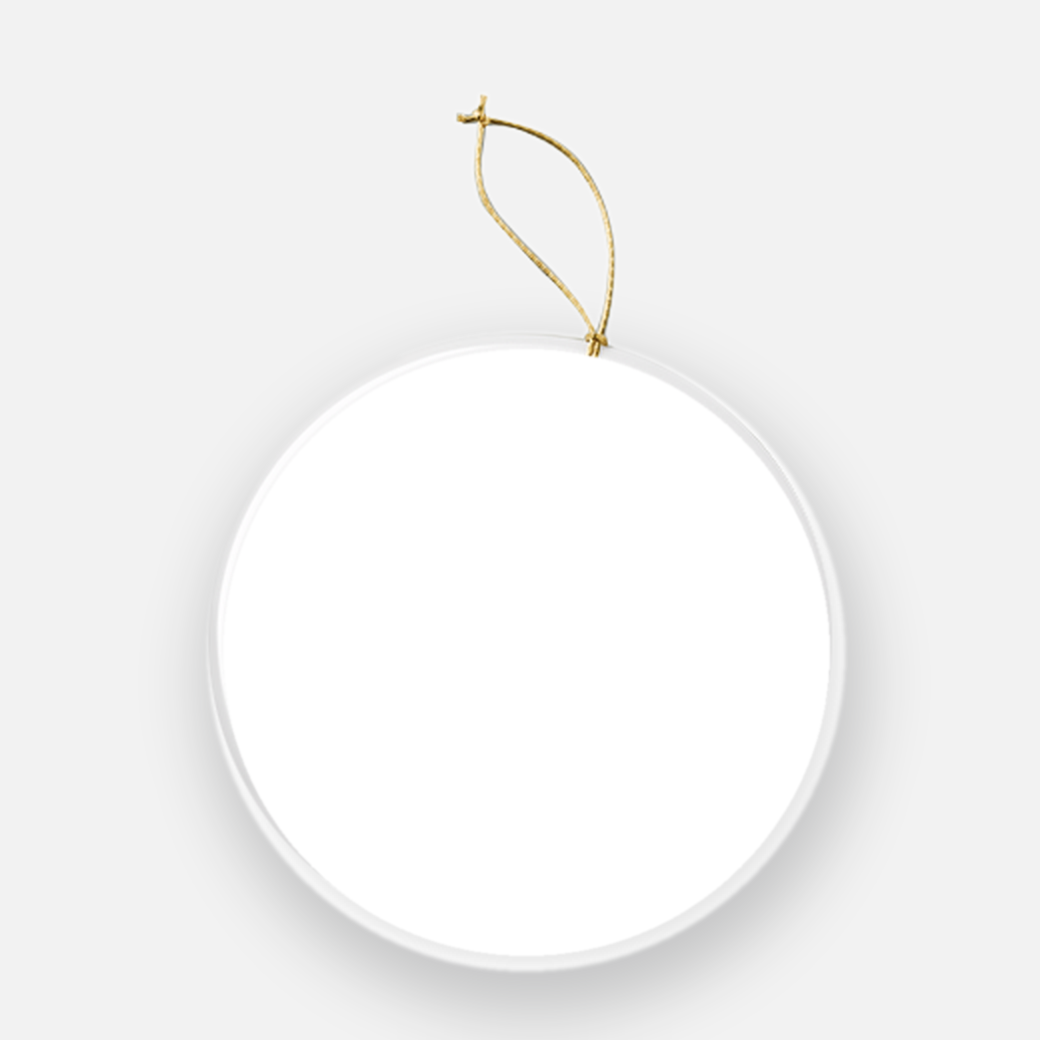
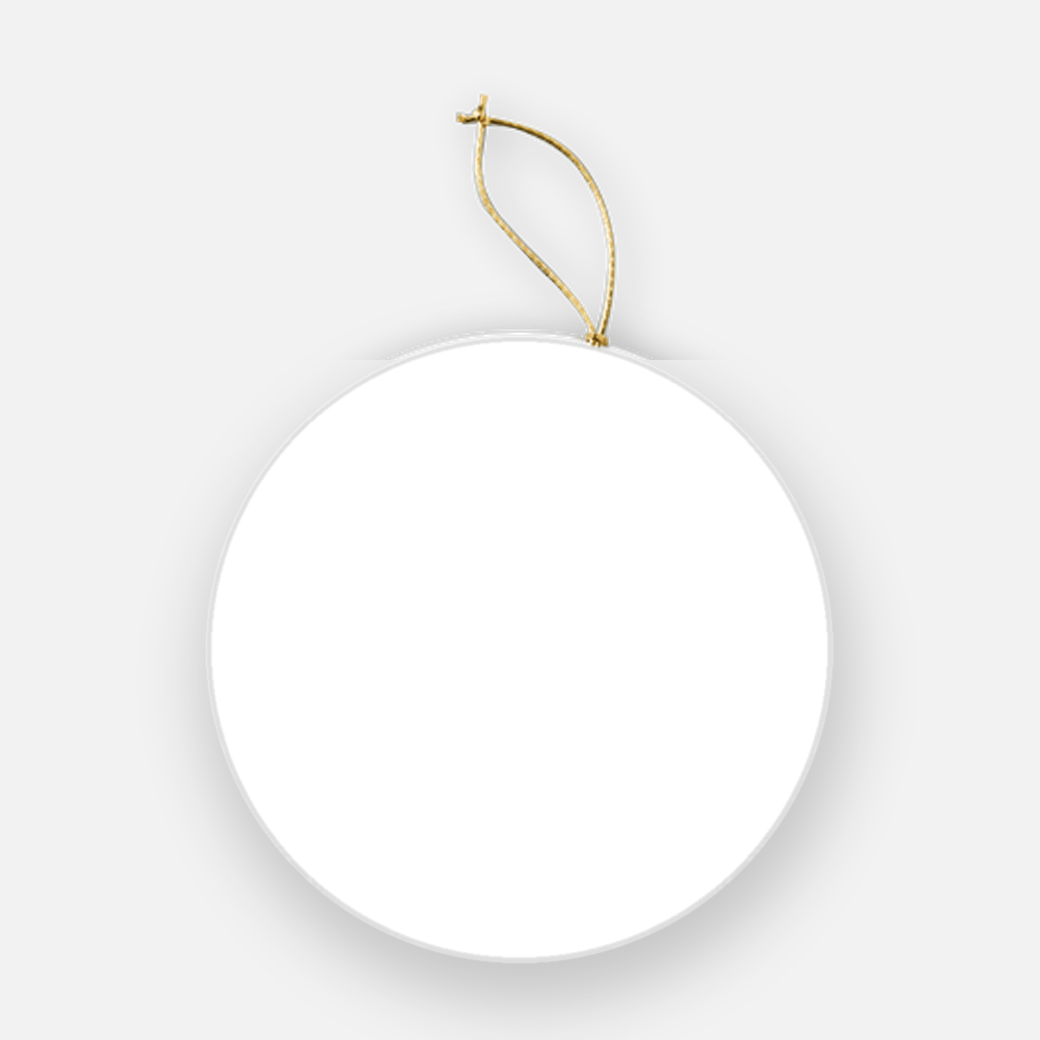
Ornament mockup: photo runs edge-to-edge, no white rim
The ceramic ornament prints edge-to-edge across the whole disc (die-cut), so
the mockup should too — the previous version left a thin white ceramic rim,
making the photo look inset. Rebuild from the transparent-background product
PNG: fit the disc from its alpha (centroid + area), erase the disc face all the
way to the die-cut edge (no inset), keep the real centered gold string/grommet,
add a soft shadow and a faint die-cut edge, opaque #f2f2f2 corners mask the
photo into the round shape. rect updated in product-preview.js and
unsplash-samples.js to the new disc fit.

Claude-Session: https://claude.ai/code/session_01XZrfFYhyt8N6RMYYLcASwM

diff --git a/public/unsplash-samples.js b/public/unsplash-samples.js
@@ -168,7 +168,7 @@
        corners into a round shape. Keeps the storefront card identical to the
        order.html preview. rect must stay in sync with MOCKUPS.ornament in
        product-preview.js. */
-    ornament: { template: '/assets/mockups/ornament.png', rect: { x: 0.2000, y: 0.3212, w: 0.6115, h: 0.6115 }, cutout: true },
+    ornament: { template: '/assets/mockups/ornament.png', rect: { x: 0.1990, y: 0.3240, w: 0.6000, h: 0.6000 }, cutout: true },
     print:  { template: '/assets/mockups/print.jpg',  rect: { x: 0.190, y: 0.113, w: 0.626, h: 0.782 }, crop: { x: 0.168, y: 0.089, w: 0.667, h: 0.823 } },
     tile:   { template: '/assets/mockups/tile.jpg',   rect: { x: 0.280, y: 0.206, w: 0.427, h: 0.598 }, crop: { x: 0.242, y: 0.167, w: 0.521, h: 0.696 } },
     canvas: { template: '/assets/mockups/canvas.jpg', rect: { x: 0.190, y: 0.112, w: 0.670, h: 0.804 }, crop: { x: 0.168, y: 0.094, w: 0.709, h: 0.869 } },

diff --git a/public/product-preview.js b/public/product-preview.js
@@ -29,7 +29,7 @@
              goes underneath and the template's own pixels — gold string, the hole,
              the rim shading, the drop shadow — sit on top. Not `cylinder`: it is
              flat, so there is no curvature to shade. */
-          ornament: { template: '/assets/mockups/ornament.png', rect: { x: 0.2000, y: 0.3212, w: 0.6115, h: 0.6115 }, cutout: true },
+          ornament: { template: '/assets/mockups/ornament.png', rect: { x: 0.1990, y: 0.3240, w: 0.6000, h: 0.6000 }, cutout: true },
           mug:    { template: '/assets/mockups/mug.png',    rect: { x: 0.1850, y: 0.1767, w: 0.5596, h: 0.6778 }, cutout: true, cylinder: true },
         };
 
